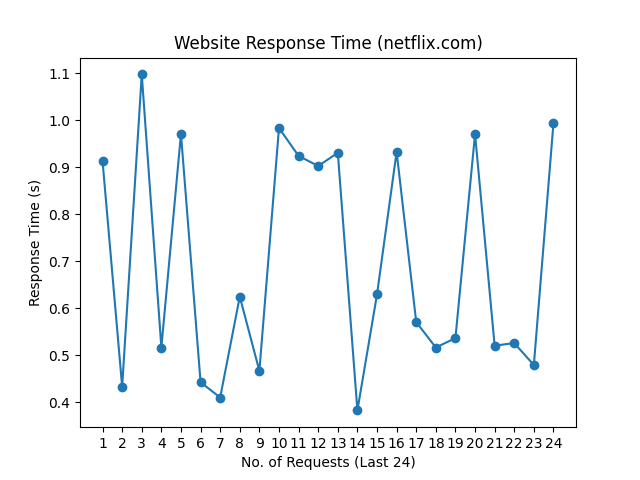
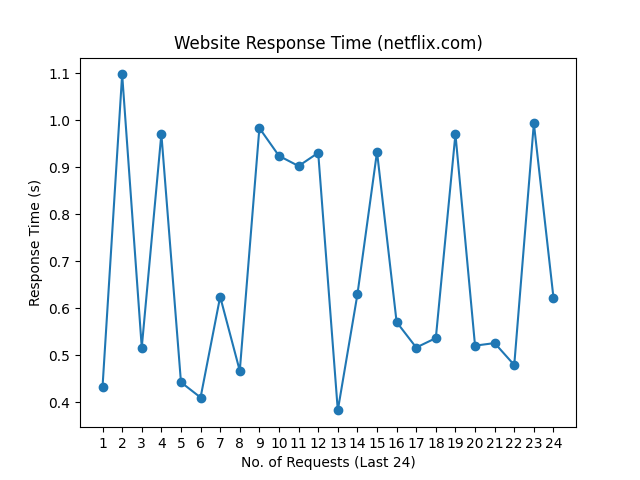
update README.md, history and graph

Changed region(s): [[0.1562, 0.125, 0.875, 0.875]]

diff --git a/README.md b/README.md
@@ -1,10 +1,10 @@
 # Web Monitoring
 
-Last Checked: 30/07/2024 08:17
+Last Checked: 31/07/2024 08:14
 
 | Website | Response Time (s) | Status | Avg Uptime (%) |
 |---------|-------------------|--------|----------------|
 | www.thiswebsiteisdown.net | 0 <br> <img src="graph/thiswebsiteisdown.net.png" alt="Graph" width="200" height="200">  | ❌ Down | 0.00 |
-| www.netflix.com | 0.993780 <br> <img src="graph/netflix.com.png" alt="Graph" width="200" height="200">  | ✅ Up | 100.00 |
-| www.google.com | 0.097786 <br> <img src="graph/google.com.png" alt="Graph" width="200" height="200">  | ✅ Up | 100.00 |
-| www.facebook.com | 0.843106 <br> <img src="graph/facebook.com.png" alt="Graph" width="200" height="200">  | ✅ Up | 100.00 |
+| www.netflix.com | 0.622865 <br> <img src="graph/netflix.com.png" alt="Graph" width="200" height="200">  | ✅ Up | 100.00 |
+| www.google.com | 0.153851 <br> <img src="graph/google.com.png" alt="Graph" width="200" height="200">  | ✅ Up | 100.00 |
+| www.facebook.com | 0.425219 <br> <img src="graph/facebook.com.png" alt="Graph" width="200" height="200">  | ✅ Up | 100.00 |
